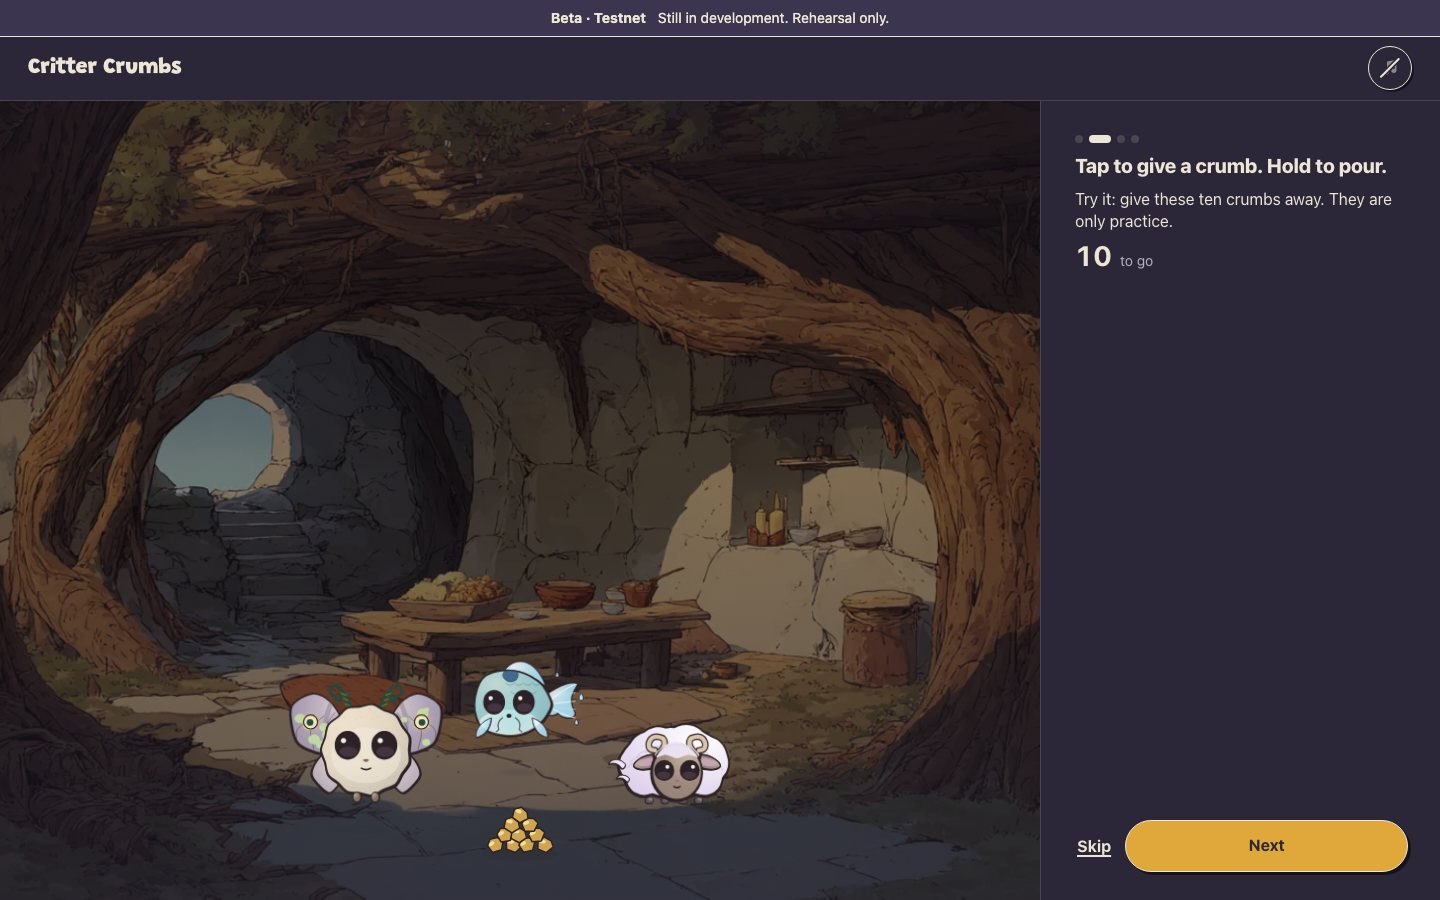
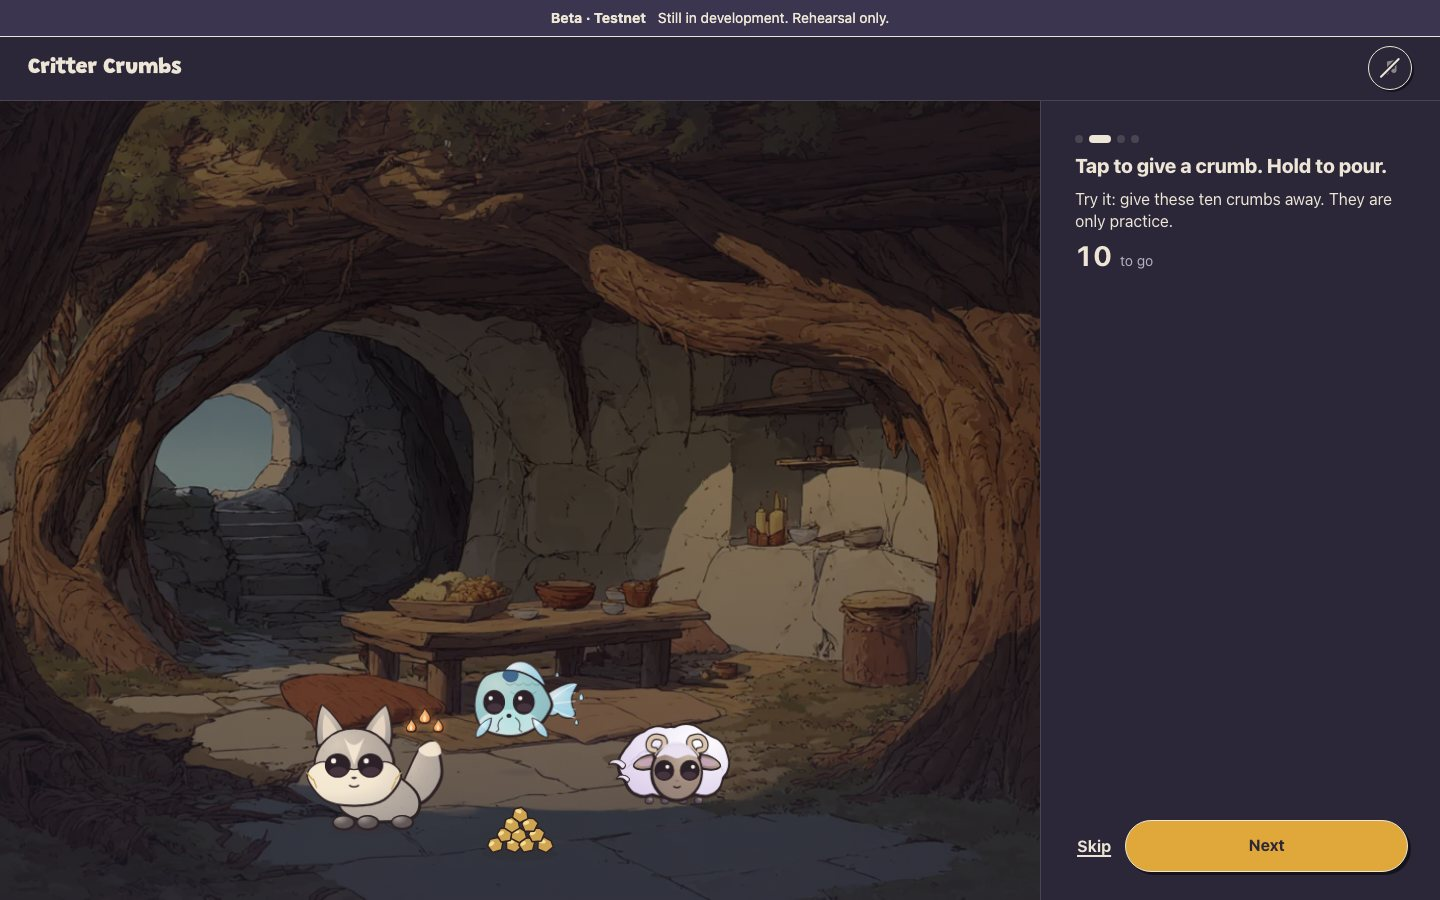
fix(client): show four different critters on the opening screens
Under the Garden Spirits review art Moss's first drawing is a pale
lichen moth like Juniper's, so the launcher and How it works showed
two look-alike moths side by side. openingVariant() draws Moss's
third variant there, an ember fox, so the opening four are one
critter of each element. Production and development keep every
first drawing.

A unit test holds the four species and elements apart, the
first-steps browser check now also runs under ?critters=garden, and
the garden-refinement captures and notes are refreshed.

Changed region(s): [[0.1875, 0.7467, 0.3125, 0.9333]]

diff --git a/packages/app/src/app/painted-scene.ts b/packages/app/src/app/painted-scene.ts
@@ -1,4 +1,5 @@
 import type { CSSProperties } from 'react';
+import { gardenReview } from '../portraits/version.js';
 
 /**
  * A screen's painted floor, as the flow page draws it (docs/explorations/app-screens, sceneLayer): one of the project's
@@ -20,6 +21,12 @@ export interface Beside { side: -1 | 1; beside: number }
 /** The review burrow's critters (docs/explorations/scatter-layouts/lib/kit.js, MEMBERS), by the address each is drawn from. */
 export const MOSS = '0x7E5F4552091A69125d5DfCb7b8C2659029395Bdf', FERN = '0x2B5AD5c4795c026514f8317c7a215E218DcCD6cF';
 export const JUNIPER = '0xF1F6619B38A98d6De0800F1DefC0a6399eB6d30C', CLOVER = '0x1efF47bc3a10a45D4B230B5d10E37751FE6AA718';
+/**
+ * Which drawing of an opening critter the launcher and the first steps show: the first, except under the Garden Spirits
+ * review art, which draws Moss's first as a pale lichen moth like Juniper's. There Moss shows its third, an ember fox,
+ * so the four are one critter of each element (packages/app/test/garden-review.test.ts).
+ */
+export const openingVariant = (address: string, review = gardenReview) => review && address === MOSS ? 2 : 0;
 
 /**
  * The launcher: four critters dozing around a heap of ten crumbs; on desktop they gather either side of the card. They
@@ -29,10 +36,10 @@ export const JUNIPER = '0xF1F6619B38A98d6De0800F1DefC0a6399eB6d30C', CLOVER = '0
 export const LAUNCHER_SCENE: { painting: Painting; critters: readonly (SceneCritter & Beside)[]; heap: SceneHeap & Beside } = {
   painting: 'window',
   critters: [
-    { address: MOSS, x: 17, y: 90, size: 124, asleep: true, face: 'right', side: -1, beside: 300 },
-    { address: CLOVER, x: 38, y: 94, size: 138, asleep: false, face: null, side: -1, beside: 140 },
-    { address: JUNIPER, x: 64, y: 93, size: 140, asleep: false, face: 'left', side: 1, beside: 140 },
-    { address: FERN, x: 84, y: 89, size: 118, asleep: true, face: 'left', side: 1, beside: 300 },
+    { address: MOSS, variant: openingVariant(MOSS), x: 17, y: 90, size: 124, asleep: true, face: 'right', side: -1, beside: 300 },
+    { address: CLOVER, variant: openingVariant(CLOVER), x: 38, y: 94, size: 138, asleep: false, face: null, side: -1, beside: 140 },
+    { address: JUNIPER, variant: openingVariant(JUNIPER), x: 64, y: 93, size: 140, asleep: false, face: 'left', side: 1, beside: 140 },
+    { address: FERN, variant: openingVariant(FERN), x: 84, y: 89, size: 118, asleep: true, face: 'left', side: 1, beside: 300 },
   ],
   heap: { crumbs: 10, x: 51, y: 95, size: 80, side: -1, beside: 64 },
 };

diff --git a/packages/app/src/app/learn-steps.ts b/packages/app/src/app/learn-steps.ts
@@ -1,4 +1,4 @@
-import { CLOVER, FERN, JUNIPER, MOSS, type Painting, type SceneCritter, type SceneHeap, type Standing } from './painted-scene.js';
+import { CLOVER, FERN, JUNIPER, MOSS, openingVariant, type Painting, type SceneCritter, type SceneHeap, type Standing } from './painted-scene.js';
 
 /** The sheet's height on the phone, the same on every step so the floor does not move between them. */
 export const LEARN_SHEET_HEIGHT = 410;
@@ -19,10 +19,10 @@ export interface LearnStep {
  * the room, at the same size against the table, on every screen. The four stand where the launcher stands them.
  */
 const QUARTET = [
-  { address: MOSS, x: 39.4, y: 90, size: 165, face: 'right' },
-  { address: CLOVER, x: 46.1, y: 94, size: 190, face: null },
-  { address: JUNIPER, x: 54.5, y: 93, size: 190, face: 'left' },
-  { address: FERN, x: 61, y: 89, size: 165, face: 'left' },
+  { address: MOSS, variant: openingVariant(MOSS), x: 39.4, y: 90, size: 165, face: 'right' },
+  { address: CLOVER, variant: openingVariant(CLOVER), x: 46.1, y: 94, size: 190, face: null },
+  { address: JUNIPER, variant: openingVariant(JUNIPER), x: 54.5, y: 93, size: 190, face: 'left' },
+  { address: FERN, variant: openingVariant(FERN), x: 61, y: 89, size: 165, face: 'left' },
 ] as const;
 /** Each of the quartet's own handful, and later its pod, lies at its feet. */
 const AT_FEET = [{ x: 43, y: 91.5 }, { x: 50, y: 95.5 }, { x: 58.5, y: 95 }, { x: 64.5, y: 90.5 }] as const;
@@ -33,10 +33,10 @@ export const LEARN_STEPS: readonly LearnStep[] = [
   {
     painting: 'window', heaps: [], pods: [], practice: { crumbs: 10, x: 50, y: 95.5, size: 88 },
     critters: [
-      { address: MOSS, x: 40, y: 91.5, size: 190, asleep: false, face: 'right' },
+      { address: MOSS, variant: openingVariant(MOSS), x: 40, y: 91.5, size: 190, asleep: false, face: 'right' },
       // in front of the cushions, not on the table (the flow page stood it at 64 %, on the table top)
-      { address: CLOVER, x: 50, y: 85, size: 170, asleep: false, face: null },
-      { address: FERN, x: 60, y: 91.5, size: 190, asleep: false, face: 'left' },
+      { address: CLOVER, variant: openingVariant(CLOVER), x: 50, y: 85, size: 170, asleep: false, face: null },
+      { address: FERN, variant: openingVariant(FERN), x: 60, y: 91.5, size: 190, asleep: false, face: 'left' },
     ],
   },
   { painting: 'dusk', critters: QUARTET.map(critter => ({ ...critter, asleep: true })), heaps: [], pods: AT_FEET.map(spot => ({ x: spot.x, y: spot.y - 0.5, size: 40 })) },

diff --git a/packages/app/test/garden-review.test.ts b/packages/app/test/garden-review.test.ts
@@ -1,5 +1,8 @@
 import { expect, test } from 'vitest';
 import { canReviewGarden } from '../src/portraits/review.js';
+import { generate2 } from '@critter-crumbs/core';
+import { gardenDraw } from '../src/portraits/garden/species.js';
+import { CLOVER, FERN, JUNIPER, MOSS, openingVariant } from '../src/app/painted-scene.js';
 
 test('garden art requires an explicit review choice and an enabled review build', () => {
   expect(canReviewGarden(false, undefined, '?critters=garden')).toBe(false);
@@ -8,4 +11,14 @@ test('garden art requires an explicit review choice and an enabled review build'
   expect(canReviewGarden(false, 'true', '?critters=1')).toBe(false);
   expect(canReviewGarden(false, 'true', '?critters=garden')).toBe(true);
   expect(canReviewGarden(true, undefined, '?critters=garden')).toBe(true);
+});
+
+test('the opening screens show one critter of each element under the review art, and every first drawing elsewhere', () => {
+  const cast = [MOSS, CLOVER, JUNIPER, FERN];
+  const review = cast.map(address => gardenDraw(generate2(address, openingVariant(address, true))));
+  expect(new Set(review.map(draw => draw.species)).size).toBe(4);
+  expect(new Set(review.map(draw => draw.element)).size).toBe(4);
+  // without the choice, Moss and Juniper would both be lichen moths
+  expect(cast.map(address => gardenDraw(generate2(address, 0)).species)).toEqual(['moth', 'koi', 'moth', 'lamb']);
+  expect(cast.map(address => openingVariant(address, false))).toEqual([0, 0, 0, 0]);
 });

diff --git a/tests/e2e/first-steps.spec.ts b/tests/e2e/first-steps.spec.ts
@@ -67,10 +67,11 @@ test('an invited first-time member keeps their destination, draft name and critt
   await expect(page.getByRole('dialog')).toHaveCount(0);
 });
 
-test('all first-step actions stay in place on short phones and desktops in either critter version', async ({ page }) => {
+test('all first-step actions stay in place on short phones and desktops in every critter version', async ({ page }) => {
   for (const viewport of [{ width: 320, height: 568 }, { width: 375, height: 667 }, { width: 390, height: 844 }, { width: 1280, height: 720 }, { width: 1440, height: 900 }]) {
     await page.setViewportSize(viewport);
-    for (const query of ['', '?critters=1']) {
+    // development drawings, production version 1 and the Garden Spirits review art, whose opening cast differs
+    for (const query of ['', '?critters=1', '?critters=garden']) {
       await page.goto(`/how-it-works${query}`);
       await expect(page.getByRole('heading', { name: 'Everyone gets the same handful', exact: true })).toBeFocused();
       await page.evaluate(() => document.fonts.ready);

diff --git a/docs/explorations/garden-refinement/README.md b/docs/explorations/garden-refinement/README.md
@@ -34,7 +34,7 @@ Left as they are, for review rather than as art defects:
 
 - The desktop result huddle stands on the dock's top edge, and its front critter overlaps the dock border. This is the existing huddle layout, shared by every critter version.
 - At 320 × 568 no two name tags overlap, but some sit well away from their critter with nothing linking them. The short-phone solver gives readable names priority over placement.
-- Two critters of one species and coat can look alike. Moss and Juniper, both pale lichen moths, sit side by side in the launcher and tutorial; their names tell them apart.
+- Two critters of one species and coat can look alike; their names tell them apart. The opening screens avoid it: Moss's first drawing is a pale lichen moth like Juniper's, so under the review art the launcher and How it works draw Moss's third, an ember fox, and show one critter of each element (`openingVariant` in `packages/app/src/app/painted-scene.ts`).
 
 ## Package and provenance
 
